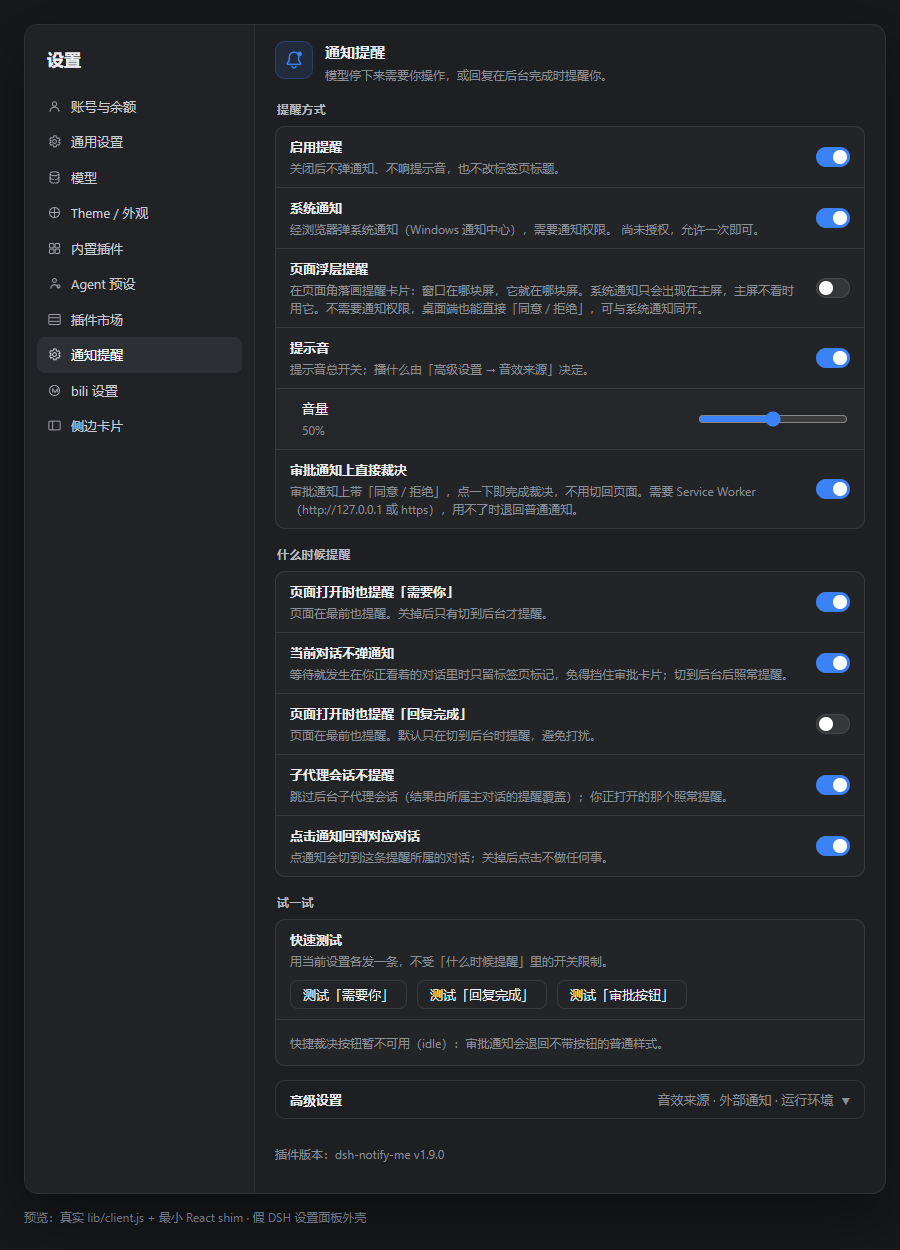
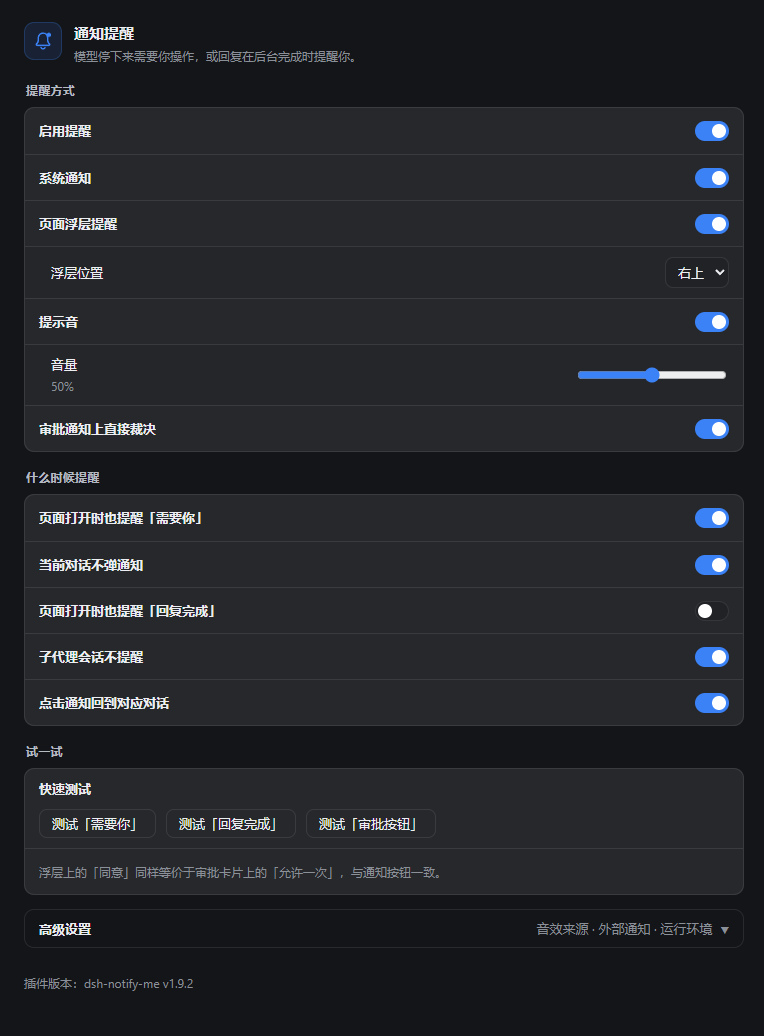
feat: hover hints for settings rows (1.9.2)
设置页每行只留标题，说明改成鼠标悬浮时在指针旁弹出的小方框；右/下边缘自动翻转，滚动收起，读屏保留隐藏文本。README/CHANGELOG/listing/徽章与截图同步。

diff --git a/lib/client.js b/lib/client.js
@@ -1937,7 +1937,7 @@
       });
     } catch (e) {}
     // keep in sync with package.json "version" on every release
-    api.version = "1.9.1";
+    api.version = "1.9.2";
     api.setConfig = function (patch) { return setConfigLocal(patch); };
     api.resetConfig = function () {
       try {
@@ -2450,6 +2450,13 @@
       ".dnm-advToggle:focus-visible{outline:2px solid var(--dsw-alias-state-business-primary,#3b82f6);outline-offset:2px}" +
       ".dnm-advRight{display:flex;align-items:center;gap:8px;flex:none;font-weight:400;color:var(--dsw-alias-label-tertiary,rgba(120,120,120,.9))}" +
       ".dnm-advChev{font-size:10px;translate:0 1px;transition:transform .15s ease}" +
+      ".dnm-rowTip{cursor:help}" +
+      ".dnm-rowValue{font-size:12px;line-height:18px;color:var(--dsw-alias-label-tertiary,rgba(120,120,120,.9))}" +
+      // The long explanation lives in a tooltip next to the pointer, so a
+      // row is one line tall. Screen readers still get the text.
+      ".dnm-srOnly{position:absolute;width:1px;height:1px;margin:-1px;padding:0;overflow:hidden;clip:rect(0 0 0 0);white-space:nowrap;border:0}" +
+      ".dnm-tip{position:fixed;left:-9999px;top:-9999px;z-index:2147483001;max-width:270px;box-sizing:border-box;padding:7px 10px;border-radius:8px;border:1px solid var(--dsw-alias-border-l2,rgba(128,128,128,.35));background:var(--dsw-alias-bg-layer-3,#26282c);color:var(--dsw-alias-label-secondary,rgba(90,90,90,.9));font-size:12px;line-height:17px;box-shadow:0 6px 18px rgba(0,0,0,.35);pointer-events:none;opacity:0;transition:opacity .12s ease}" +
+      ".dnm-tip.on{opacity:1}" +
       ".dnm-advChev.open{transform:rotate(180deg)}";
     (function injectStyle() {
       try {
@@ -2464,11 +2471,101 @@
       } catch (e) {}
     })();
 
+    // Hover hints: a row keeps one line of text; its explanation shows up in a
+    // small box beside the pointer after a short delay. One shared node, so
+    // nothing has to be cleaned up per row.
+    var TIP_ID = "dsh-notify-me-tip";
+    var tipEl = null;
+    var tipTimer = null;
+    var tipShown = false;
+    var tipX = 0;
+    var tipY = 0;
+    function tipNode() {
+      try {
+        if (tipEl && tipEl.parentNode) return tipEl;
+        if (typeof document === "undefined" || !document.body) return null;
+        var node = document.createElement("div");
+        node.id = TIP_ID;
+        node.className = "dnm-tip";
+        node.setAttribute("role", "tooltip");
+        document.body.appendChild(node);
+        tipEl = node;
+        return node;
+      } catch (e) { return null; }
+    }
+    function hideTip() {
+      if (tipTimer) { clearTimeout(tipTimer); tipTimer = null; }
+      if (!tipShown) return;
+      tipShown = false;
+      if (tipEl) tipEl.className = "dnm-tip";
+    }
+    // Keep the box on screen: flip left of the pointer near the right edge,
+    // flip above it near the bottom.
+    function placeTip() {
+      var node = tipEl;
+      if (!node || !tipShown) return;
+      var pad = 12;
+      var rect = node.getBoundingClientRect();
+      var vw = window.innerWidth || 0;
+      var vh = window.innerHeight || 0;
+      var x = tipX + 14;
+      if (x + rect.width + pad > vw) x = tipX - rect.width - 14;
+      if (x < pad) x = pad;
+      var y = tipY + 18;
+      if (y + rect.height + pad > vh) y = tipY - rect.height - 12;
+      if (y < pad) y = pad;
+      node.style.left = Math.round(x) + "px";
+      node.style.top = Math.round(y) + "px";
+    }
+    function showTip(text) {
+      var node = tipNode();
+      if (!node) return;
+      node.textContent = text;
+      tipShown = true;
+      node.className = "dnm-tip on";
+      placeTip();
+    }
+    function tipHandlers(text) {
+      return {
+        onMouseEnter: function (e) {
+          tipX = e.clientX;
+          tipY = e.clientY;
+          if (tipTimer) clearTimeout(tipTimer);
+          tipTimer = setTimeout(function () { tipTimer = null; showTip(text); }, 320);
+        },
+        onMouseMove: function (e) {
+          tipX = e.clientX;
+          tipY = e.clientY;
+          if (tipShown) placeTip();
+        },
+        onMouseLeave: hideTip
+      };
+    }
+    // A row that has an explanation: single-line label, text in the tooltip.
+    function tipRow(className, hintText, children) {
+      var props = { className: className + (hintText ? " dnm-rowTip" : "") };
+      if (hintText) {
+        props["data-dnm-tip"] = hintText;
+        var handlers = tipHandlers(hintText);
+        props.onMouseEnter = handlers.onMouseEnter;
+        props.onMouseMove = handlers.onMouseMove;
+        props.onMouseLeave = handlers.onMouseLeave;
+      }
+      return h("div", props, children);
+    }
+    // Read-screen-only copy of the tooltip text.
+    function srOnly(text) {
+      return text ? h("span", { className: "dnm-srOnly" }, text) : null;
+    }
+    (function tipDismissOnScroll() {
+      try { window.addEventListener("scroll", hideTip, true); } catch (e) {}
+    })();
+
     function rowSwitch(key, labelText, hintText, checked, onChange) {
-      return h("div", { className: "dnm-row" }, [
+      return tipRow("dnm-row", hintText, [
         h("div", { className: "dnm-rowText" }, [
           h("div", { className: "dnm-rowLabel" }, labelText),
-          hintText ? h("div", { className: "dnm-rowHint" }, hintText) : null
+          srOnly(hintText)
         ]),
         h("button", {
           type: "button",
@@ -2541,7 +2638,7 @@
           h("div", { className: "dnm-row" }, [
             h("div", { className: "dnm-rowText" }, [
               h("div", { className: "dnm-rowLabel" }, labelText),
-              h("div", { className: "dnm-rowHint" }, note)
+              h("div", { className: "dnm-rowValue" }, note)
             ]),
             h("div", { className: "dnm-btnRow" }, [
               h("select", {
@@ -2569,11 +2666,12 @@
           ])
         ];
         if (mode !== "custom") return rows;
-        rows.push(h("div", { className: "dnm-row" }, [
+        var pickNote = (rec ? Math.round((rec.size || 0) / 1024) + " KB · " : t("soundNone") + " · ")
+          + "≤" + Math.round(SOUND_MAX_BYTES / 1024) + " KB";
+        rows.push(tipRow("dnm-row", pickNote, [
           h("div", { className: "dnm-rowText" }, [
             h("div", { className: "dnm-rowLabel" }, t("soundPick")),
-            h("div", { className: "dnm-rowHint" }, (rec ? Math.round((rec.size || 0) / 1024) + " KB · " : t("soundNone") + " · ")
-              + "≤" + Math.round(SOUND_MAX_BYTES / 1024) + " KB")
+            srOnly(pickNote)
           ]),
           h("div", { className: "dnm-btnRow" }, [
             h("input", {
@@ -2726,6 +2824,7 @@
       var permOK = ("Notification" in window) ? Notification.permission === "granted" : false;
       var resolvedLang = effectiveLang();
       var resolvedLangName = resolvedLang === "en" ? t("langEn") : t("langZh");
+      var langNote = resolvedLangName + (cfg.language === "auto" ? t("langAutoNote") : "");
       // The environment row states what detection saw whenever the manual
       // choice disagrees with it — the override exists for hosts where the
       // protocol read comes out wrong, so the divergence must be visible.
@@ -2755,10 +2854,10 @@
       var advState = React.useState(false);
       var advancedOpen = advState[0];
       var setAdvancedOpen = advState[1];
-      var testRow = h("div", { className: "dnm-row dnm-rowStack" }, [
+      var testRow = tipRow("dnm-row dnm-rowStack", t("testHint"), [
         h("div", { className: "dnm-rowText" }, [
           h("div", { className: "dnm-rowLabel" }, t("testTitle")),
-          h("div", { className: "dnm-rowHint" }, t("testHint"))
+          srOnly(t("testHint"))
         ]),
         h("div", { className: "dnm-btnRow" }, [
           h("button", { type: "button", className: "dnm-btn", disabled: !cfg.enabled, onClick: function () { runTest("attention"); } }, t("testAttention")),
@@ -2784,10 +2883,10 @@
           }),
           rowSwitch("toast", t("toast"), toastHintText(), cfg.toast, function (v) { patch({ toast: v }); }),
           rowSwitch("overlay", t("overlay"), t("overlayHint"), cfg.overlay, function (v) { patch({ overlay: v }); }),
-          cfg.overlay ? h("div", { className: "dnm-row dnm-rowSub" }, [
+          cfg.overlay ? tipRow("dnm-row dnm-rowSub", t("overlayCornerHint"), [
             h("div", { className: "dnm-rowText" }, [
               h("div", { className: "dnm-rowLabel" }, t("overlayCorner")),
-              h("div", { className: "dnm-rowHint" }, t("overlayCornerHint"))
+              srOnly(t("overlayCornerHint"))
             ]),
             h("select", {
               className: "dnm-select",
@@ -2880,10 +2979,10 @@
             [rowSwitch("externalEnabled", t("externalEnable"), t("externalEnableHint"), cfg.externalEnabled, function (v) { patch({ externalEnabled: v }); })],
             [rowSwitch("externalAttention", t("externalAttentionLabel"), t("externalAttentionHint"), cfg.externalAttention, function (v) { patch({ externalAttention: v }); })],
             [rowSwitch("externalDone", t("externalDoneLabel"), t("externalDoneHint"), cfg.externalDone, function (v) { patch({ externalDone: v }); })],
-            [h("div", { className: "dnm-row" }, [
+            [tipRow("dnm-row", t("externalTargetsHint"), [
               h("div", { className: "dnm-rowText" }, [
                 h("div", { className: "dnm-rowLabel" }, t("externalTargetsLabel")),
-                h("div", { className: "dnm-rowHint" }, t("externalTargetsHint"))
+                srOnly(t("externalTargetsHint"))
               ])
             ])],
             externalRows(),
@@ -2902,10 +3001,10 @@
                 }, t("externalAdd"))
               ])
             ])],
-            [h("div", { className: "dnm-row" }, [
+            [tipRow("dnm-row", t("externalTestHint"), [
               h("div", { className: "dnm-rowText" }, [
                 h("div", { className: "dnm-rowLabel" }, t("externalTestLabel")),
-                h("div", { className: "dnm-rowHint" }, t("externalTestHint"))
+                srOnly(t("externalTestHint"))
               ]),
               h("div", { className: "dnm-btnRow" }, [
                 h("button", {
@@ -2920,10 +3019,10 @@
           )),
           secTitle(t("secDiag")),
           card([
-            h("div", { className: "dnm-row" }, [
+            tipRow("dnm-row", envHint, [
               h("div", { className: "dnm-rowText" }, [
                 h("div", { className: "dnm-rowLabel" }, t("hostEnv")),
-                h("div", { className: "dnm-rowHint" }, envHint)
+                srOnly(envHint)
               ]),
               h("select", {
                 className: "dnm-select",
@@ -2936,10 +3035,10 @@
                 h("option", { value: "web" }, t("hostEnvWeb"))
               ])
             ]),
-            h("div", { className: "dnm-row" }, [
+            tipRow("dnm-row", langNote, [
               h("div", { className: "dnm-rowText" }, [
                 h("div", { className: "dnm-rowLabel" }, t("language")),
-                h("div", { className: "dnm-rowHint" }, resolvedLangName + (cfg.language === "auto" ? t("langAutoNote") : ""))
+                srOnly(langNote)
               ]),
               h("select", {
                 className: "dnm-select",
@@ -2952,10 +3051,10 @@
                 h("option", { value: "en" }, t("langEn"))
               ])
             ]),
-            h("div", { className: "dnm-row" }, [
+            tipRow("dnm-row", t("resetHint"), [
               h("div", { className: "dnm-rowText" }, [
                 h("div", { className: "dnm-rowLabel" }, t("reset")),
-                h("div", { className: "dnm-rowHint" }, t("resetHint"))
+                srOnly(t("resetHint"))
               ]),
               h("button", { type: "button", className: "dnm-btn", onClick: function () {
                 // api.resetConfig() also drops the picked cue files, which are

diff --git a/docs/listing.md b/docs/listing.md
@@ -17,7 +17,7 @@
 
 ## 本插件的当前状态
 
-- npm：`dsh-notify-me` 已发布，`latest` 为 1.9.1（1.9.1 = 设置左侧导航行图标换成品牌铃铛；1.9.0 = 品牌标志 `docs/brand/` + 设置页重排：页眉 / 提醒方式 / 什么时候提醒 / 试一试 / 折叠的高级设置，2026-10-20 发布；publish 返回 `PUT 202` 后约 1 分钟才在 registry 可读，属正常处理延迟），manifest 带 `dsh.bundle.patch` 与 `dsh.compatibility.dshReleases`（npm 上这份声明到 `0.2.0-rc.2`；仓库里已补到 `0.2.1-rc.2`，随下次发版同步。`0.2.1-rc.2` 宿主不再读取该字段，装不装只看 `peerDependencies` 与 `engines`）。
+- npm：`dsh-notify-me` 已发布，`latest` 为 1.9.2（1.9.2 = 设置页说明改成悬浮提示，行内只留标题；1.9.1 = 设置左侧导航行图标换成品牌铃铛；1.9.0 = 品牌标志 `docs/brand/` + 设置页重排：页眉 / 提醒方式 / 什么时候提醒 / 试一试 / 折叠的高级设置，2026-10-20 发布；publish 返回 `PUT 202` 后约 1 分钟才在 registry 可读，属正常处理延迟），manifest 带 `dsh.bundle.patch` 与 `dsh.compatibility.dshReleases`（npm 上这份声明到 `0.2.0-rc.2`；仓库里已补到 `0.2.1-rc.2`，随下次发版同步。`0.2.1-rc.2` 宿主不再读取该字段，装不装只看 `peerDependencies` 与 `engines`）。
 - imsai-sh / deepseek1024.com：条目 `catalog/plugins/chromoany--dsh-notify-me.json` 已合入 `main`（`added: 2026-09-09`），`Catalog sync` 工作流在每次 main 推送后自动跑。**2026-09-11 扩写条目描述以提升站内可搜性（PR #400，`static-review` 已通过、待合并）**：原描述里没有「消息提醒 / 桌面通知 / 提醒 / message alerts / reminder」，用户搜这些词完全命中不到——机制见下节。
 - awesome-dsh-plugin：条目文件 `data/plugins/chromoany__dsh-notify-me.yml` 在 **PR #4741**（`Submission gate` 绿；唯一红的 `check` 是仓库级构建失败，与本条目无关），**仍未合并**。2026-09-11 核查结论：该站**自 2026-09-09 03:13Z 起站点构建失败、数据停更在 09-08**（registry 顶层 `updated: 2026-09-08`、`count: 3408`、最大 `added: 2026-09-08`），且 **09-09 03:26Z 之后零合并**（`merged:>=2026-09-09T04:00:00Z` 精确等于 0）。反证：09-09 已合并的 #4591 `xtd1145/dsh-deepseek-cost-live`、#4495 `dearbld/dsh-living-memory`、#4503 `dsh-todo-float-ball` 在站点上**同样 404**。故"搜不到"是整条队列停滞，不是本条目被拒。
 

diff --git a/README.en.md b/README.en.md
@@ -13,7 +13,7 @@
 [![npm total downloads](https://img.shields.io/npm/dt/dsh-notify-me?style=flat-square&label=total%20downloads&color=1F883D)](https://www.npmjs.com/package/dsh-notify-me)
 [![License: MIT](https://img.shields.io/badge/license-MIT-blue?style=flat-square)](LICENSE)
 [![DSH Web and Desktop](https://img.shields.io/badge/DSH-Web%20%7C%20Desktop-blue?style=flat-square)](#installation)
-[![Client bundle size](https://img.shields.io/badge/client-%7E161%20KiB-green?style=flat-square)](lib/client.js)
+[![Client bundle size](https://img.shields.io/badge/client-%7E164%20KiB-green?style=flat-square)](lib/client.js)
 [![DSH Compatibility](https://img.shields.io/badge/DSH-tested%200.2.1--rc.2-6366f1.svg?style=flat-square)](#compatibility)
 [![Awesome DSH Plugin](https://awesome-dsh-plugin.com/badge.svg)](https://awesome-dsh-plugin.com)
 
@@ -47,7 +47,7 @@ A notification plugin for DSH Web / Desktop, so you can keep full access off wit
 
 ![The Notify me settings page: header, how you get told, when to alert, try it, and the collapsed Advanced block](https://raw.githubusercontent.com/chromoany/dsh-notify-me/main/docs/screenshots/settings-en.png)
 
-The real settings component (v1.9.0 defaults) rendered full-page in a standalone demo shell; the sidebar is kept for context, it is not the DSH shell.
+The real settings component (v1.9.2 defaults) rendered as the content column in a standalone demo shell. Row explanations now live in a hover tooltip, which is why only the titles show here.
 </details>
 
 ## Installation
@@ -116,7 +116,7 @@ dsh-notify-me decouples **supervision** from **sitting in front of the screen**:
 
 ## Configure it from DSH Settings
 
-Open **Settings → Notify me**. The page runs as how you get told, when to alert, and a try-it block; the knobs you rarely touch fold into **Advanced** at the bottom.
+Open **Settings → Notify me**. The page runs as how you get told, when to alert, and a try-it block; the knobs you rarely touch fold into **Advanced** at the bottom. Rows show titles only — the explanation pops up next to the pointer on hover, with a hidden copy kept for screen readers.
 
 ### How you get told
 

diff --git a/CHANGELOG.md b/CHANGELOG.md
@@ -2,6 +2,18 @@
 
 All notable changes to **dsh-notify-me** are documented here.
 
+## [1.9.2] — 2026-10-20
+
+### 变更
+
+- **设置页的说明文字改成悬浮提示**：每行只留标题，鼠标移上去约 0.3 秒后在指针旁边弹出小方框显示原来的说明；靠近视口右侧/底部自动翻到另一边，滚动即收起。页面因此短了很多，一屏能扫完所有开关。
+- 读屏仍能读到完整说明（每行保留视觉隐藏的 `.dnm-srOnly` 文本）；音量百分比、权限提示、外部推送说明这类状态信息仍常显。
+- README（中英）与设置页预览截图同步更新；徽章 bundle 尺寸更新为 ~164 KiB。
+
+### 测试
+
+- `npm test` 两套件通过；另在无头 Chromium 里用真 bundle + 假设置外壳验证悬浮出现/跟随/右缘翻转的坐标（`box=544,827 270x50 vw=900` 未越界）与中英两版截图。
+
 ## [1.9.1] — 2026-10-20
 
 ### 新增
